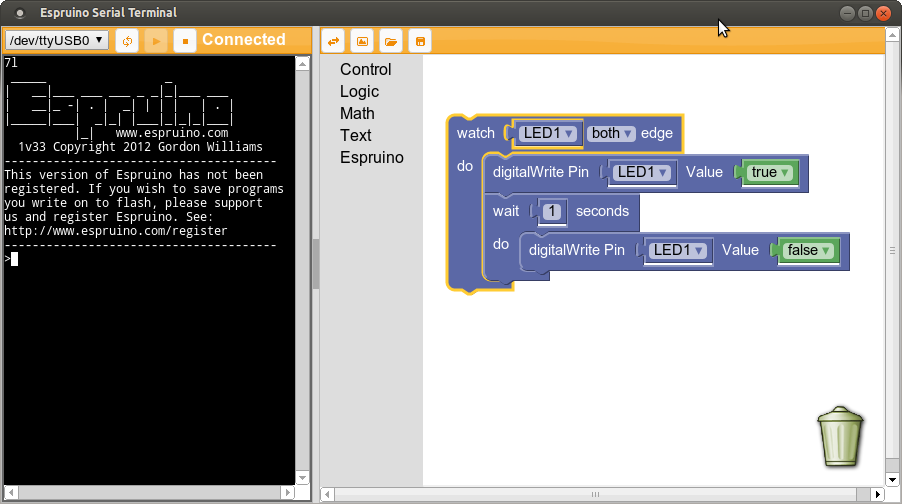
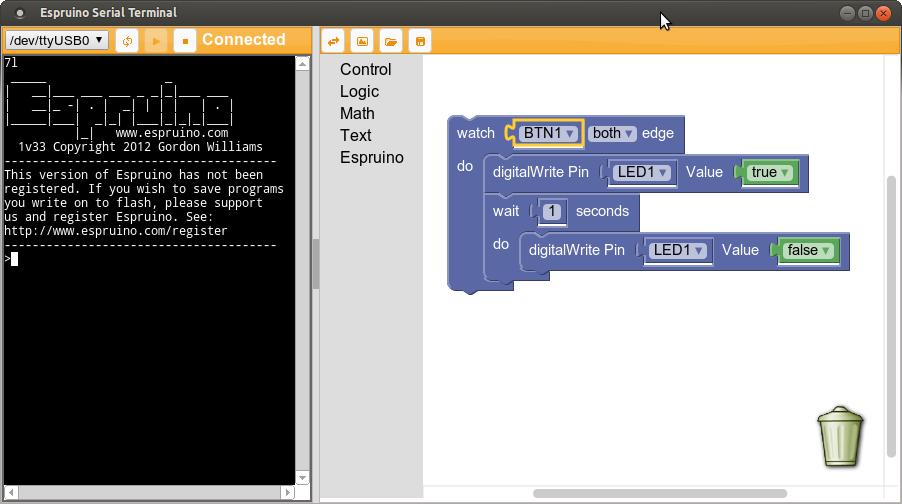
oops

diff --git a/blockly/blockly.html b/blockly/blockly.html
@@ -60,7 +60,7 @@
     </xml>
 
     <!-- Blockly initial code -->
-<xml id="blocklyInitial" style="display: none"><block type="espruino_watch" inline="true" x="-27" y="25"><title name="EDGE">both</title><value name="PIN"><block type="espruino_pin"><title name="PIN">LED1</title></block></value><statement name="DO"><block type="espruino_digitalWrite" inline="true"><value name="PIN"><block type="espruino_pin"><title name="PIN">LED1</title></block></value><value name="VAL"><block type="logic_boolean"><title name="BOOL">TRUE</title></block></value><next><block type="espruino_timeout" inline="true"><value name="SECONDS"><block type="math_number"><title name="NUM">1</title></block></value><statement name="DO"><block type="espruino_digitalWrite" inline="true"><value name="PIN"><block type="espruino_pin"><title name="PIN">LED1</title></block></value><value name="VAL"><block type="logic_boolean"><title name="BOOL">FALSE</title></block></value></block></statement></block></next></block></statement></block></xml>
+<xml id="blocklyInitial" style="display: none"><block type="espruino_watch" inline="true" x="-27" y="25"><title name="EDGE">both</title><value name="PIN"><block type="espruino_pin"><title name="PIN">BTN1</title></block></value><statement name="DO"><block type="espruino_digitalWrite" inline="true"><value name="PIN"><block type="espruino_pin"><title name="PIN">LED1</title></block></value><value name="VAL"><block type="logic_boolean"><title name="BOOL">TRUE</title></block></value><next><block type="espruino_timeout" inline="true"><value name="SECONDS"><block type="math_number"><title name="NUM">1</title></block></value><statement name="DO"><block type="espruino_digitalWrite" inline="true"><value name="PIN"><block type="espruino_pin"><title name="PIN">LED1</title></block></value><value name="VAL"><block type="logic_boolean"><title name="BOOL">FALSE</title></block></value></block></statement></block></next></block></statement></block></xml>
 
   </body>
 </html>
